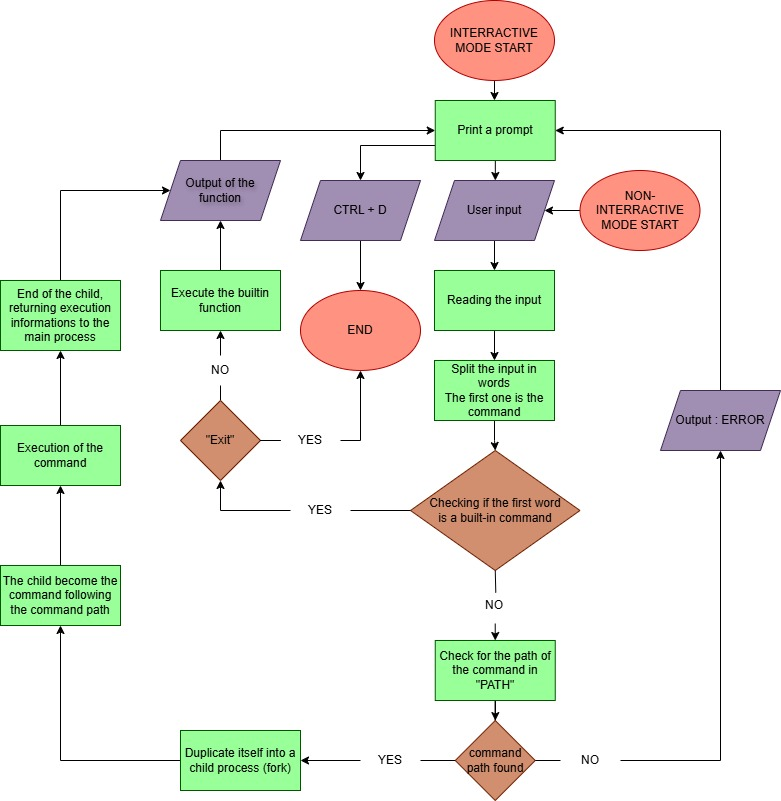
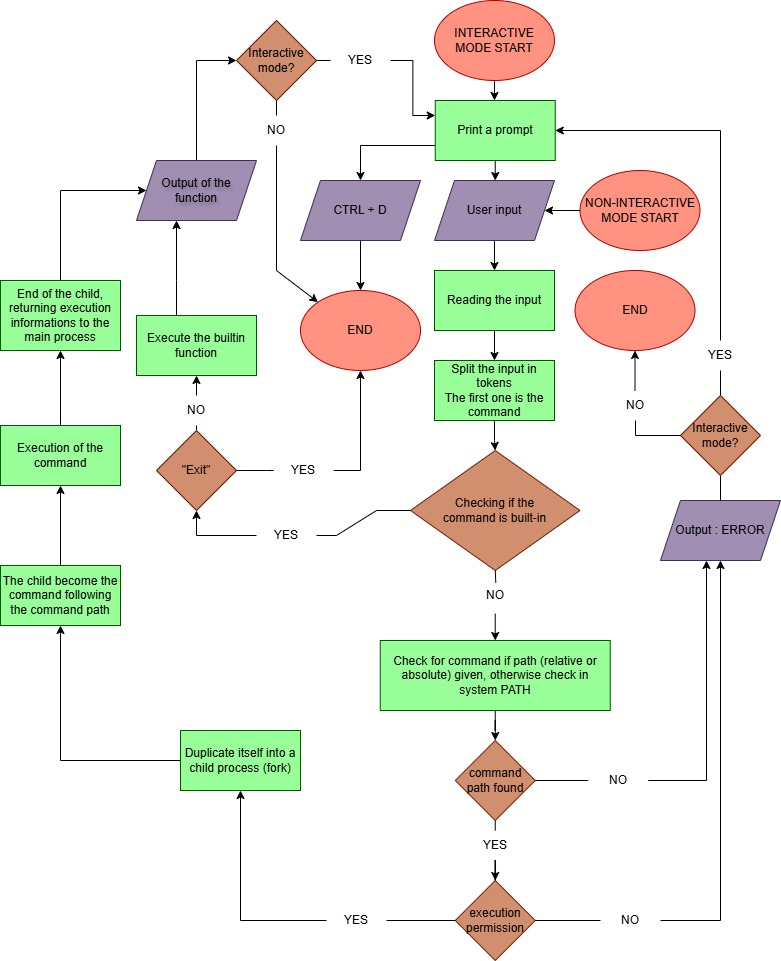
Correction on man page, improving the flowchart

diff --git a/main.c b/main.c
@@ -50,6 +50,7 @@ int non_inter(char **args, char *line, char *nom_cmd, int cmd_cnt, int *e_stat)
 						return (*e_stat);
 					} /* Exit the loop if "exit" called without argument */
 					*e_stat = exit_built(line, args, cmd_cnt, nom_cmd);
+					break;
 				}
 				execute(args, cmd_cnt, nom_cmd, e_stat);
 			}
